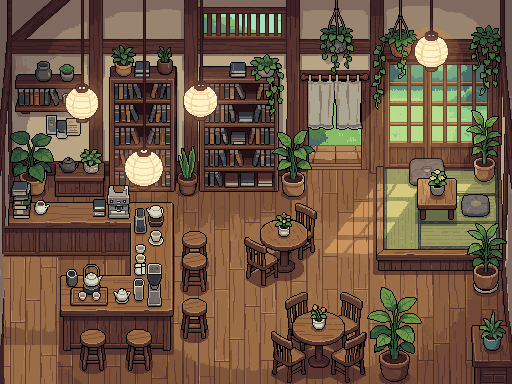
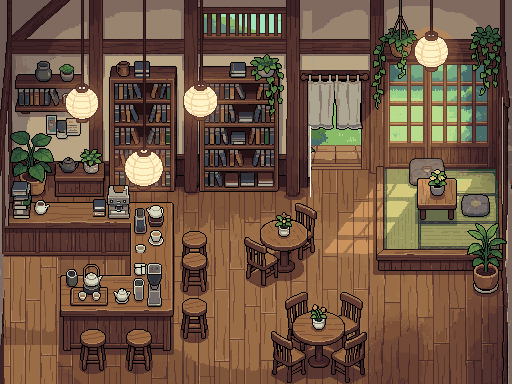
Librería sin las plantas y la taza marcadas; noche sin luciérnagas
Retoque con el inpaint de PixelLab por zonas. El original se guarda en
art/source/libreria-dentro-con-plantas.png.

Claude-Session: https://claude.ai/code/session_013JaQUVzXM27QoDPQ52S5iX

diff --git a/src/scenes/LibraryScene.js b/src/scenes/LibraryScene.js
@@ -83,8 +83,8 @@ export class LibraryScene extends BaseScene {
     this.cartel.setText(juego.fase === 'mañana' ? 'ABIERTO' : 'CERRADO');
   }
 
-  // La noche: cielo estrellado en las ventanas, farolillos en ámbar,
-  // charcos de luz cálida y lucecitas flotando. Todo va por encima de la
+  // La noche: cielo estrellado en las ventanas, farolillos en ámbar
+  // y charcos de luz cálida. Todo va por encima de la
   // capa de luz (que oscurece en violeta) para que brille de verdad.
   crearNoche() {
     const cosas = [];
@@ -117,34 +117,6 @@ export class LibraryScene extends BaseScene {
       });
       cosas.push(halo, charco);
     });
-
-    // Lucecitas que flotan despacio por la sala (luciérnagas)
-    const azar = new Phaser.Math.RandomDataGenerator(['luciernagas']);
-    for (let i = 0; i < 22; i++) {
-      const x = OX + azar.between(20, L.IMAGEN.ancho - 20);
-      const y = OY + azar.between(30, L.IMAGEN.alto - 20);
-      const luz = this.add.image(x, y, 'brillo').setTint(azar.pick([0xffd58a, 0xffc070, 0xfff0c0]))
-        .setBlendMode(ADD).setScale(azar.realInRange(0.05, 0.09)).setAlpha(0).setDepth(9003);
-      this.tweens.add({
-        targets: luz,
-        x: x + azar.between(-40, 40),
-        y: y + azar.between(-30, 20),
-        duration: azar.between(5000, 9000),
-        yoyo: true,
-        repeat: -1,
-        ease: 'Sine.inOut',
-      });
-      this.tweens.add({
-        targets: luz,
-        alpha: { from: 0, to: azar.realInRange(0.6, 1) },
-        duration: azar.between(1200, 2600),
-        delay: azar.between(0, 3000),
-        yoyo: true,
-        repeat: -1,
-        ease: 'Sine.inOut',
-      });
-      cosas.push(luz);
-    }
 
     // Que ninguna luz se salga de la sala
     const forma = this.make.graphics({ add: false }).fillStyle(0xffffff).fillRect(OX, OY, L.IMAGEN.ancho, L.IMAGEN.alto);

diff --git a/src/data/libraryLayout.js b/src/data/libraryLayout.js
@@ -18,9 +18,7 @@ export const MUROS = [
   { x: 243, y: 214, ancho: 75, alto: 58 }, // mesa redonda de arriba con sillas
   { x: 272, y: 300, ancho: 93, alto: 80 }, // mesa redonda de abajo con sillas
   { x: 377, y: 160, ancho: 135, alto: 112 }, // rincón de tatami
-  { x: 378, y: 352, ancho: 36, alto: 24 }, // planta grande
-  { x: 466, y: 272, ancho: 46, alto: 22 }, // plantas de la derecha
-  { x: 470, y: 332, ancho: 42, alto: 22 },
+  { x: 466, y: 272, ancho: 46, alto: 22 }, // planta de la derecha
 ];
 
 // Trozos de la imagen que se dibujan "delante" del protagonista cuando
@@ -34,10 +32,8 @@ export const FRENTES = [
   { x: 76, y: 326, ancho: 82, alto: 52, base: 374 },
   { x: 238, y: 200, ancho: 86, alto: 76, base: 272 }, // mesas
   { x: 266, y: 288, ancho: 104, alto: 96, base: 380 },
-  { x: 368, y: 282, ancho: 52, alto: 96, base: 376 }, // planta grande
   { x: 374, y: 150, ancho: 138, alto: 124, base: 272 }, // tatami
-  { x: 462, y: 218, ancho: 50, alto: 78, base: 294 }, // plantas de la derecha
-  { x: 466, y: 306, ancho: 46, alto: 50, base: 354 },
+  { x: 462, y: 218, ancho: 50, alto: 78, base: 294 }, // planta de la derecha
 ];
 
 // Sitios importantes
